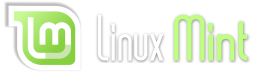
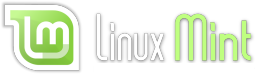
+ Cleanup and optimizations, thanks to XhmikosR

Changed region(s): [[0.3438, 0.16, 1.0, 0.8533], [0.0, 0.0267, 0.3438, 0.96]]

diff --git a/MediaInfo_Website/trunk/HomePage/MediaInfo/_/JavaScript/pack.js b/MediaInfo_Website/trunk/HomePage/MediaInfo/_/JavaScript/pack.js
@@ -1,1 +1,1 @@
-function writeTo(e,t){location.href="mailto:"+t+"@"+e}function createCookie(e,t,n){var r="";if(n){var i=new Date;i.setTime(i.getTime()+n*24*60*60*1e3),r="; expires="+i.toGMTString()}document.cookie=e+"="+t+r+"; path=/"}function readCookie(e){var t=e+"=",n=document.cookie.split(";");for(var r=0;r<n.length;r++){var i=n[r];while(i.charAt(0)===" ")i=i.substring(1,i.length);if(i.indexOf(t)===0)return i.substring(t.length,i.length)}return null}function setActiveStyleSheet(e){var t,n;for(t=0;n=document.getElementsByTagName("link")[t];t++)n.getAttribute("rel").indexOf("style")!==-1&&n.getAttribute("title")&&(n.disabled=!0,n.getAttribute("title")===e&&(n.disabled=!1))}function display(e,t){document.getElementById(e).className==="open"?(document.getElementById(t).className="plus",document.getElementById(e).className="closed"):(document.getElementById(t).className="minus",document.getElementById(e).className="open")}function Line_Show(e){document.getElementById(e+"H").className="hidden",document.getElementById(e+"S").className="showed",document.getElementById(e).className="showed"}function Line_Hide(e){document.getElementById(e+"H").className="showed",document.getElementById(e+"S").className="hidden",document.getElementById(e).className="hidden"}function Col_Show(e){document.getElementById(e).className="hidden";for(var t=0;t<=200;t++)document.getElementById(e+t)&&(document.getElementById(e+t).className=e)}function Col_Hide(e){document.getElementById(e).className="showed";for(var t=0;t<=200;t++)document.getElementById(e+t)&&(document.getElementById(e+t).className="hidden")}function Line_Show_All(){Line_Show("Title"),Line_Show("Organization"),Line_Show("People"),Line_Show("Classification"),Line_Show("Temporal"),Line_Show("Spacial"),Line_Show("Personal"),Line_Show("Technical"),Line_Show("External"),Line_Show("Commercial"),Line_Show("Other"),Line_Show("Nested")}function Line_Hide_All(){Line_Hide("Title"),Line_Hide("Organization"),Line_Hide("People"),Line_Hide("Classification"),Line_Hide("Temporal"),Line_Hide("Spacial"),Line_Hide("Personal"),Line_Hide("Technical"),Line_Hide("External"),Line_Hide("Commercial"),Line_Hide("Other"),Line_Hide("Nested")}function Col_Show_All(){Col_Show("mi"),Col_Show("mk"),Col_Show("id"),Col_Show("vo"),Col_Show("ap"),Col_Show("wm"),Col_Show("ri"),Col_Show("dc"),Col_Show("de")}function Col_Hide_All(){Col_Hide("mi"),Col_Hide("mk"),Col_Hide("id"),Col_Hide("vo"),Col_Hide("ap"),Col_Hide("wm"),Col_Hide("ri"),Col_Hide("dc"),Col_Hide("de")};
+function writeTo(e,n){location.href="mailto:"+n+"@"+e}function createCookie(e,n,i){var t="";if(i){var o=new Date;o.setTime(o.getTime()+1e3*60*60*24*i),t="; expires="+o.toGMTString()}document.cookie=e+"="+n+t+"; path=/"}function readCookie(e){for(var n=e+"=",i=document.cookie.split(";"),t=0;i.length>t;t++){for(var o=i[t];" "===o.charAt(0);)o=o.substring(1,o.length);if(0===o.indexOf(n))return o.substring(n.length,o.length)}return null}function setActiveStyleSheet(e){var n,i;for(n=0;i=document.getElementsByTagName("link")[n];n++)-1!==i.getAttribute("rel").indexOf("style")&&i.getAttribute("title")&&(i.disabled=!0,i.getAttribute("title")===e&&(i.disabled=!1))}function display(e,n){"open"===document.getElementById(e).className?(document.getElementById(n).className="plus",document.getElementById(e).className="closed"):(document.getElementById(n).className="minus",document.getElementById(e).className="open")}function Line_Show(e){document.getElementById(e+"H").className="hidden",document.getElementById(e+"S").className="showed",document.getElementById(e).className="showed"}function Line_Hide(e){document.getElementById(e+"H").className="showed",document.getElementById(e+"S").className="hidden",document.getElementById(e).className="hidden"}function Col_Show(e){document.getElementById(e).className="hidden";for(var n=0;200>=n;n++)document.getElementById(e+n)&&(document.getElementById(e+n).className=e)}function Col_Hide(e){document.getElementById(e).className="showed";for(var n=0;200>=n;n++)document.getElementById(e+n)&&(document.getElementById(e+n).className="hidden")}function Line_Show_All(){Line_Show("Title"),Line_Show("Organization"),Line_Show("People"),Line_Show("Classification"),Line_Show("Temporal"),Line_Show("Spacial"),Line_Show("Personal"),Line_Show("Technical"),Line_Show("External"),Line_Show("Commercial"),Line_Show("Other"),Line_Show("Nested")}function Line_Hide_All(){Line_Hide("Title"),Line_Hide("Organization"),Line_Hide("People"),Line_Hide("Classification"),Line_Hide("Temporal"),Line_Hide("Spacial"),Line_Hide("Personal"),Line_Hide("Technical"),Line_Hide("External"),Line_Hide("Commercial"),Line_Hide("Other"),Line_Hide("Nested")}function Col_Show_All(){Col_Show("mi"),Col_Show("mk"),Col_Show("id"),Col_Show("vo"),Col_Show("ap"),Col_Show("wm"),Col_Show("ri"),Col_Show("dc"),Col_Show("de")}function Col_Hide_All(){Col_Hide("mi"),Col_Hide("mk"),Col_Hide("id"),Col_Hide("vo"),Col_Hide("ap"),Col_Hide("wm"),Col_Hide("ri"),Col_Hide("dc"),Col_Hide("de")}

diff --git a/MediaInfo_Website/trunk/HomePage/MediaInfo/en/Download.html b/MediaInfo_Website/trunk/HomePage/MediaInfo/en/Download.html
@@ -30,7 +30,7 @@
 	<td><a href="https://launchpad.net/~shiki/+archive/mediainfo"><abbr title="Personal Package Archive">PPA</abbr> releases</a><br/><br/><a href="Download/Ubuntu">Official releases</a></td>
 </tr>
 <tr>
-	<th id="Linux_Mint"><a href="Download/Ubuntu"><img src="../_/Image/OS/Linux_Mint.png" width="256" height="82" alt="Linux Mint" title="Linux Mint"/></a></th>
+	<th id="Linux_Mint"><a href="Download/Ubuntu"><img src="../_/Image/OS/Linux_Mint.png" width="256" height="75" alt="Linux Mint" title="Linux Mint"/></a></th>
 	<td><a href="Download/Ubuntu">Official releases</a></td>
 </tr>
 <tr>

diff --git a/MediaInfo_Website/trunk/HomePage/MediaInfo/en/Download/Ubuntu.html b/MediaInfo_Website/trunk/HomePage/MediaInfo/en/Download/Ubuntu.html
@@ -7,7 +7,7 @@
 </head>
 <body>
 <h1>Download - Ubuntu (Ubuntu, Kubuntu, Xbuntu...), Linux Mint</h1>
-<img src="../../_/Image/OS/Ubuntu.png" width="304" height="79" alt="Ubuntu"/><img src="../../_/Image/OS/Linux_Mint.png" width="256" height="82" alt="Linux Mint"/><br/>
+<img src="../../_/Image/OS/Ubuntu.png" width="304" height="79" alt="Ubuntu"/><img src="../../_/Image/OS/Linux_Mint.png" width="256" height="75" alt="Linux Mint"/><br/>
 
 <table border="1">
 <tr bgcolor="#99CCFF">
